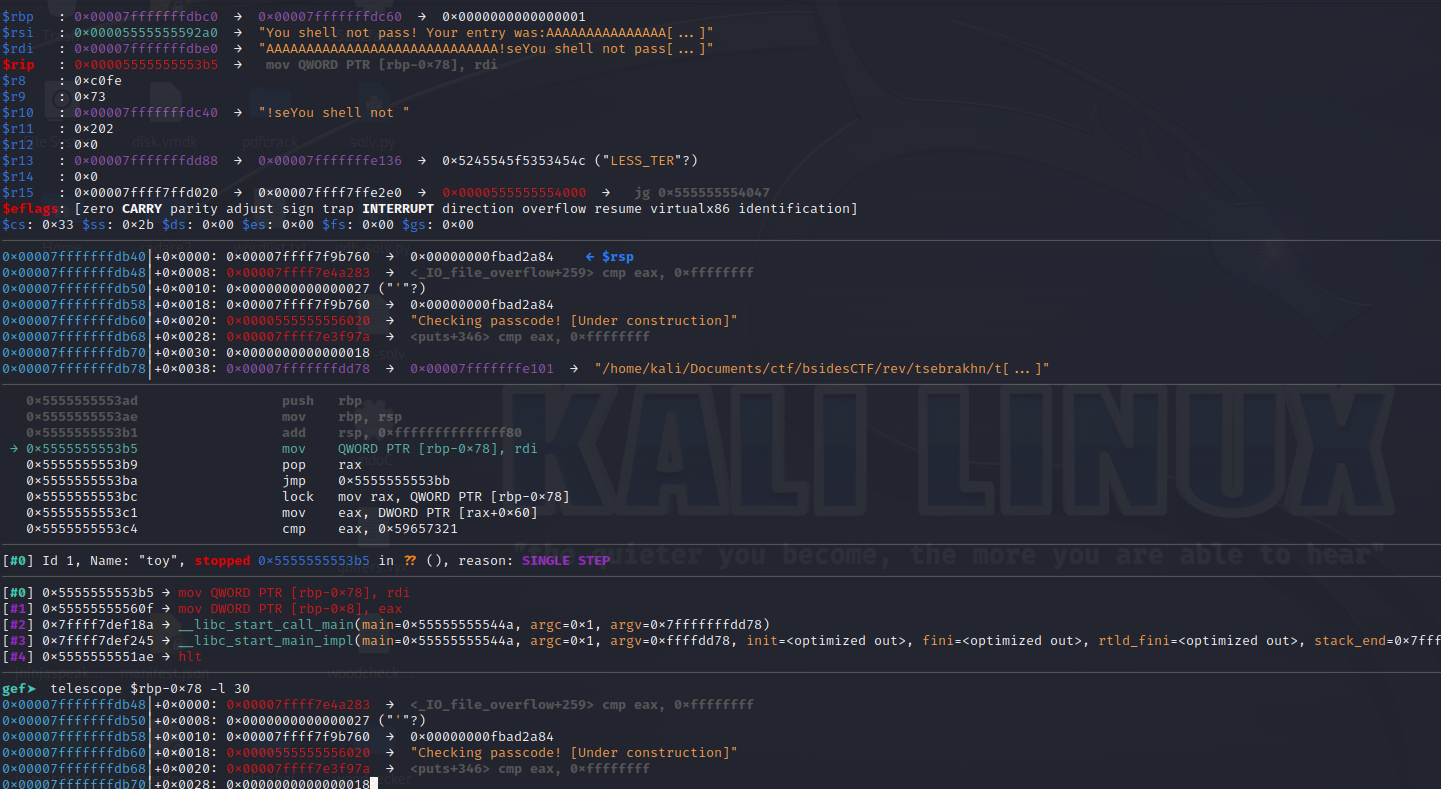
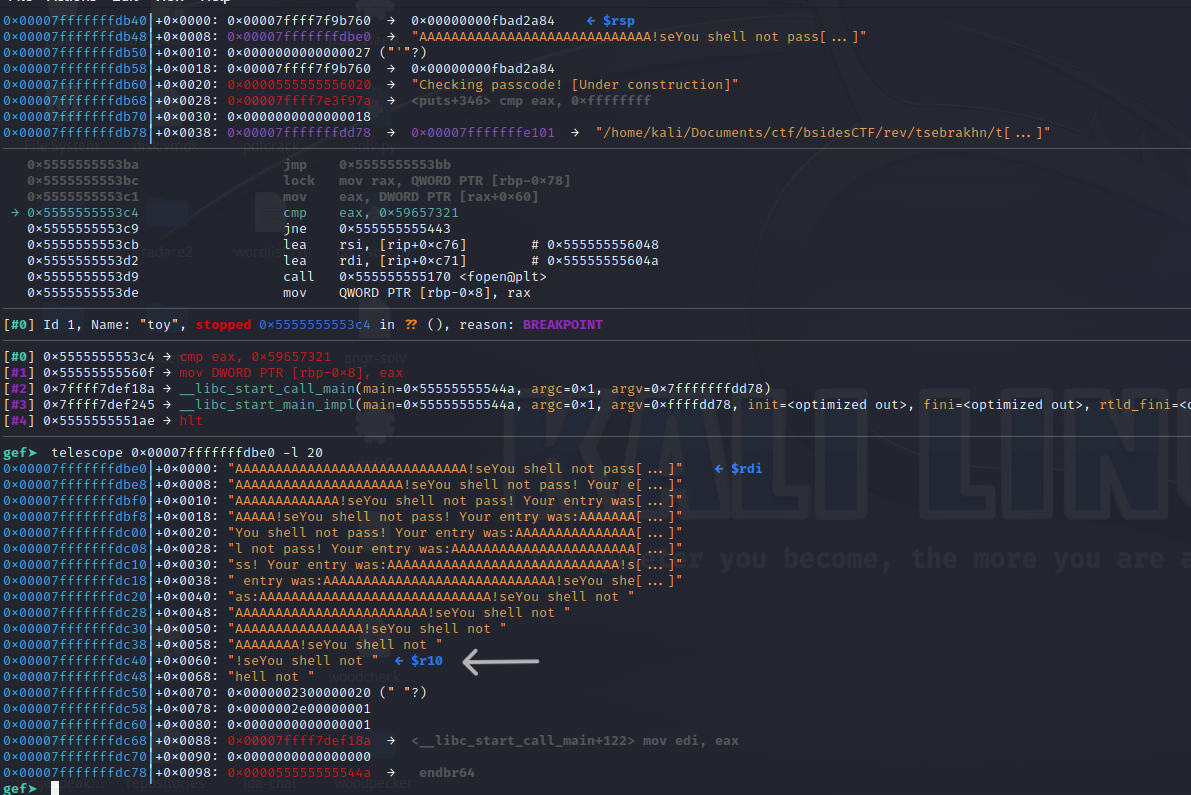
typo img filename

Changed region(s): [[0.0, 0.0, 1.0, 1.0], [0.5903, 0.5779, 0.6524, 0.6084]]

diff --git a/posts/bsidestlvctf2023-tsebrakhn/index.html b/posts/bsidestlvctf2023-tsebrakhn/index.html
@@ -126,7 +126,7 @@ When loading the binary in IDA, IDA failed to analyze it well, so pressing F5 fo
 </li>
 <li>
 <p>Eventually, the program reaches a point where it compares our input length again with 0x59657321. However, due to the overwritten memory and correct alignment, it obtains the DWORD PTR of <code>Yes!</code> instead, which is equivalent to 0x59657321 in hex. Once this check is passed, we will receive the flag.</p>
-<p><img src="/img/bsidestlvctf2023-tsebrakhn/img6.png" alt="IMG"></p>
+<p><img src="/img/bsidestlvctf2023-tsebrakhn/img5.png" alt="IMG"></p>
 </li>
 </ol>
 <h3 id="flag">Flag:</h3>
